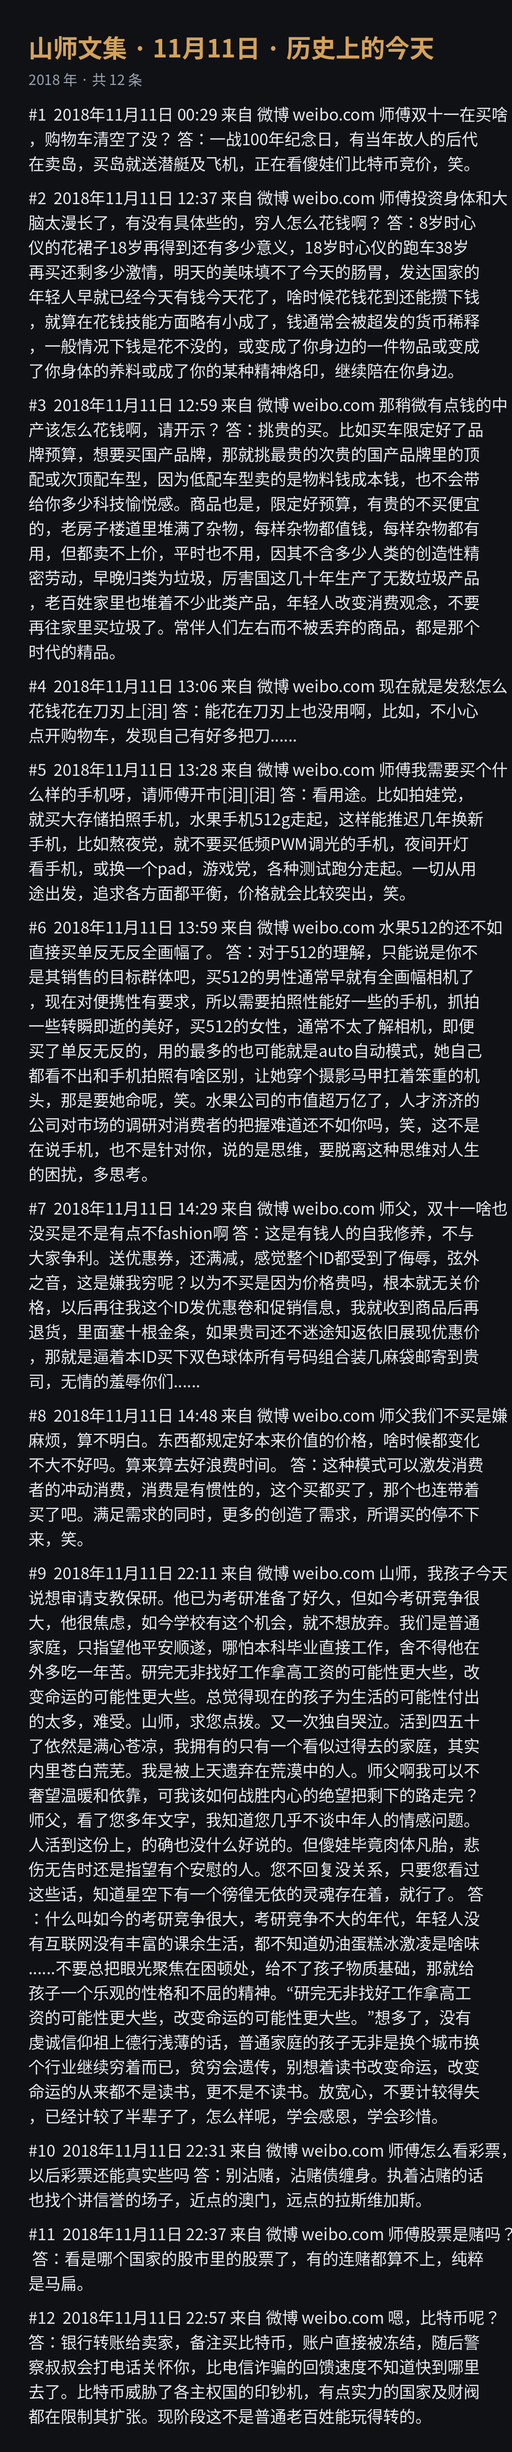
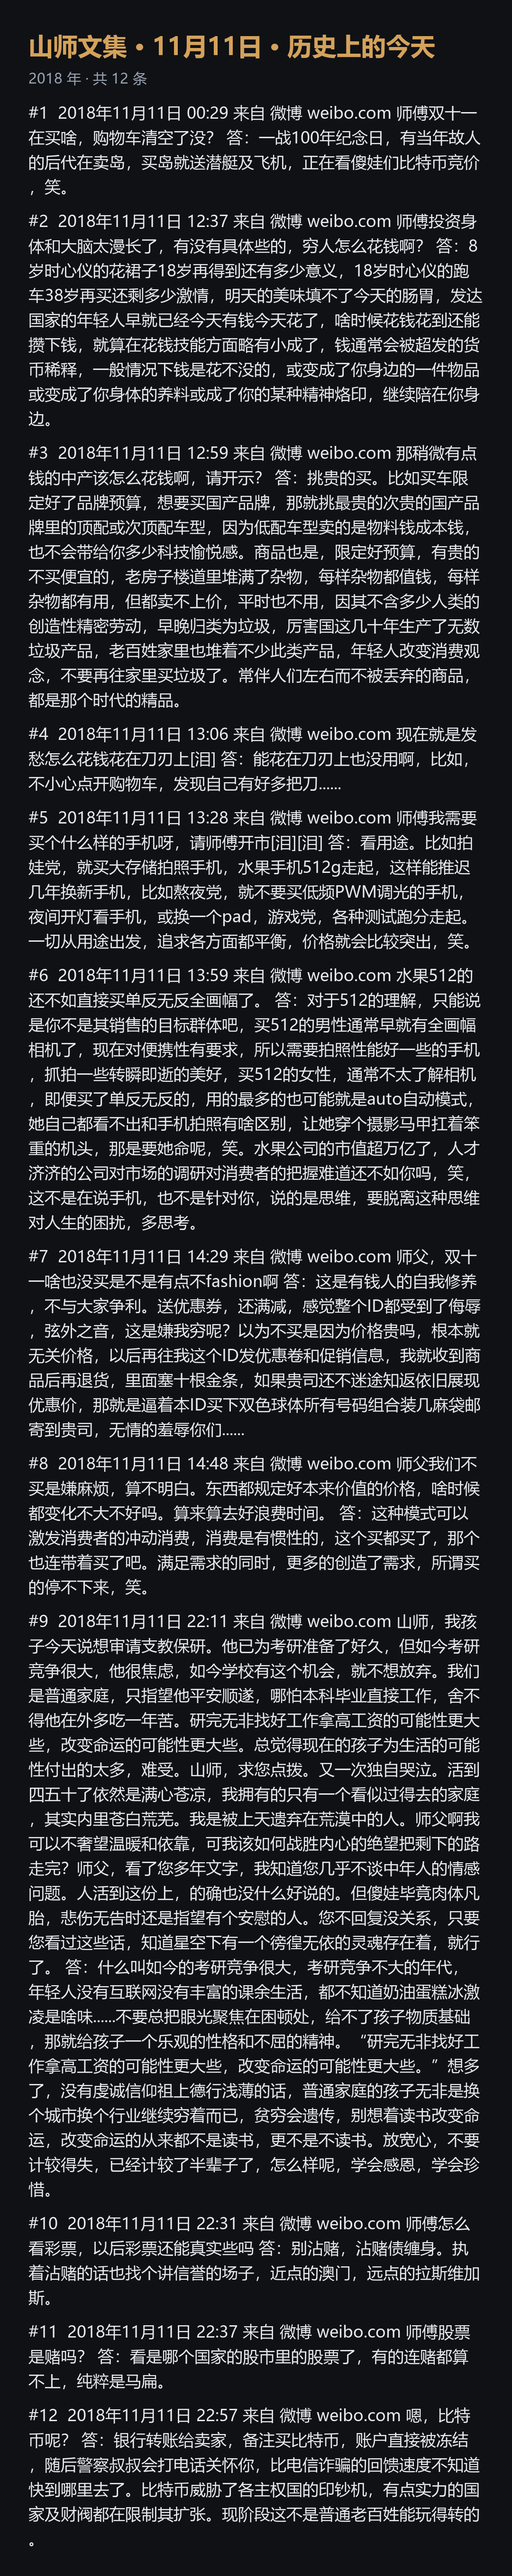
修复文集出图右侧截断：编号先拼再换行（原逻辑先换行后加编号，首行超宽被画布裁掉）；补充零宽字符/emoji 过滤

Changed region(s): [[0.0611, 0.0, 0.9472, 0.9977]]

diff --git a/build_daily.py b/build_daily.py
@@ -17,6 +17,7 @@
 """
 import json
 import os
+import re
 import sys
 from datetime import datetime
 from PIL import Image, ImageDraw, ImageFont
@@ -45,6 +46,28 @@ ACCENT = (212, 162, 90)
 
 def pad(n):
     return f"{n:02d}"
+
+
+# 微信复制常带进零宽字符（U+200B 等）和 emoji，msyh 字体渲染不出来就是豆腐块，
+# 出图前统一清掉。零宽/变体选择符/组合符必须清，emoji 主体也一并去掉。
+_EMOJI_RE = re.compile(
+    "["
+    "\u200b-\u200f"            # 零宽空格/连接符/方向标记
+    "\u202a-\u202e"
+    "\u2060-\u2064"
+    "\ufe00-\ufe0f"            # 变体选择符
+    "\u20d0-\u20ff"            # 组合用符号
+    "\U0001f000-\U0001faff"    # emoji 主体
+    "\u2600-\u27bf"            # 杂项符号/装饰符号
+    "\u2b00-\u2bff"
+    "\ufe0f"
+    "]+"
+)
+
+
+def clean_text(s):
+    """去掉渲染不出来的零宽字符和 emoji，避免出现豆腐块。"""
+    return _EMOJI_RE.sub("", s).replace("\u3000", " ").strip()
 
 
 def today_md():
@@ -163,6 +186,8 @@ def build_images(md, data):
     md_title = f"山师文集 · {int(m)}月{int(d)}日 · 历史上的今天"
 
     outputs = []
+    font_body = ImageFont.truetype(FONT_REG, 34)
+    inner_w = W - MARGIN * 2
 
     # 单年一图：MM-DD-YYYY.png
     for g in data:
@@ -171,9 +196,9 @@ def build_images(md, data):
         idx = 0
         for txt in g["items"]:
             idx += 1
-            wrapped = wrap_text(txt, ImageFont.truetype(FONT_REG, 34), W - MARGIN * 2)
-            # 条目编号放首行前缀
-            wrapped[0] = f"#{idx}  {wrapped[0]}" if len(wrapped) else f"#{idx}"
+            # 编号必须先拼到文本最前、再整体换行；先换行后加编号会让首行超宽，
+            # 右侧文字被画布边缘切掉（历史 bug，勿改回）
+            wrapped = wrap_text(f"#{idx}  {clean_text(txt)}", font_body, inner_w)
             blocks.append((None, wrapped))
         sub = f"{year} 年 · 共 {len(g['items'])} 条"
         out = os.path.join(IMG_DIR, f"{md}-{year}.png")
@@ -187,10 +212,8 @@ def build_images(md, data):
         wrapped_items = []
         for txt in g["items"]:
             idx += 1
-            ws = wrap_text(txt, ImageFont.truetype(FONT_REG, 34), W - MARGIN * 2)
-            if ws:
-                ws[0] = f"#{idx}  {ws[0]}"
-            wrapped_items.extend(ws)
+            wrapped_items.extend(
+                wrap_text(f"#{idx}  {clean_text(txt)}", font_body, inner_w))
         blocks.append((g["year"], wrapped_items))
     total_n = sum(len(g["items"]) for g in data)
     out = os.path.join(IMG_DIR, f"{md}.png")
